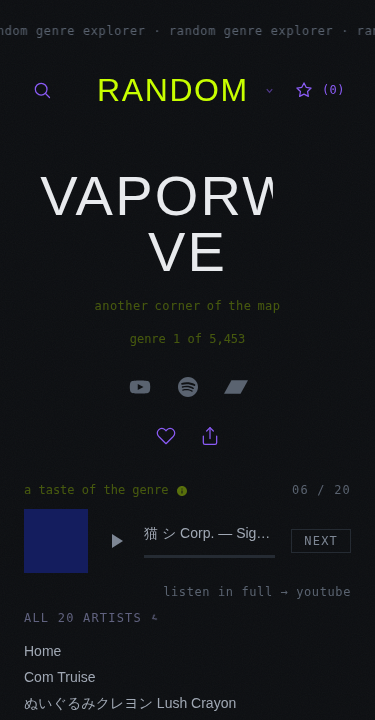
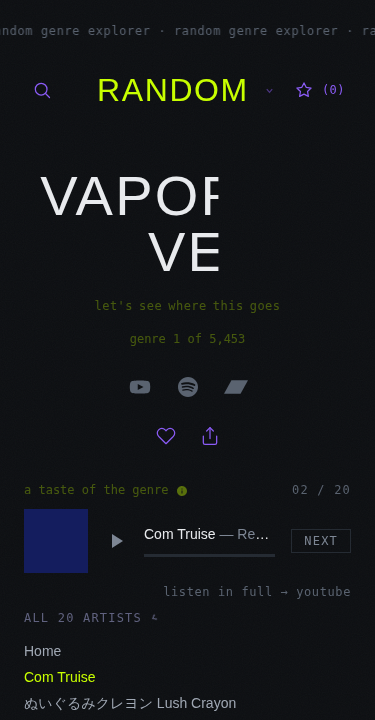
Give the artist visual weight over the track title in the player line
The unified player line reads ARTIST — title; the artist now carries
the line (regular weight, near-white) while the title reads as its
shadow (light weight, dimmed). Same hierarchy in the tag-cascade
fallback player.

Claude-Session: https://claude.ai/code/session_018xfJD2Bs5qVyHZA2jGcKNq

diff --git a/src/components/TasteOfGenre.css b/src/components/TasteOfGenre.css
@@ -94,13 +94,23 @@
 .taste__track {
   font-family: var(--font-body);
   font-size: var(--text-sm);
-  color: var(--gray-300);
   white-space: nowrap;
   overflow: hidden;
   text-overflow: ellipsis;
   margin: 0 0 var(--space-3);
   opacity: 1;
   transition: opacity 300ms ease;
+}
+
+/* The artist carries the line; the track title reads as its shadow. */
+.taste__artist {
+  font-weight: var(--font-weight-regular);
+  color: var(--gray-100);
+}
+
+.taste__title {
+  font-weight: var(--font-weight-light);
+  color: var(--gray-400);
 }
 
 .taste__fade--out {

diff --git a/src/components/TasteOfGenre.jsx b/src/components/TasteOfGenre.jsx
@@ -218,8 +218,10 @@ function TastePlayer({ display, statusText, action, fading, onPlayingChange, onI
         </button>
         <div className="taste__info">
           <p className={`taste__track${fadeClass}`}>
-            {display.name}
-            {display.title && <> &mdash; {display.title}</>}
+            <span className="taste__artist">{display.name}</span>
+            {display.title && (
+              <span className="taste__title"> &mdash; {display.title}</span>
+            )}
           </p>
           <div className="taste__bar" onClick={handleBarClick}>
             <div className="taste__fill" style={{ width: `${progress * 100}%` }} />